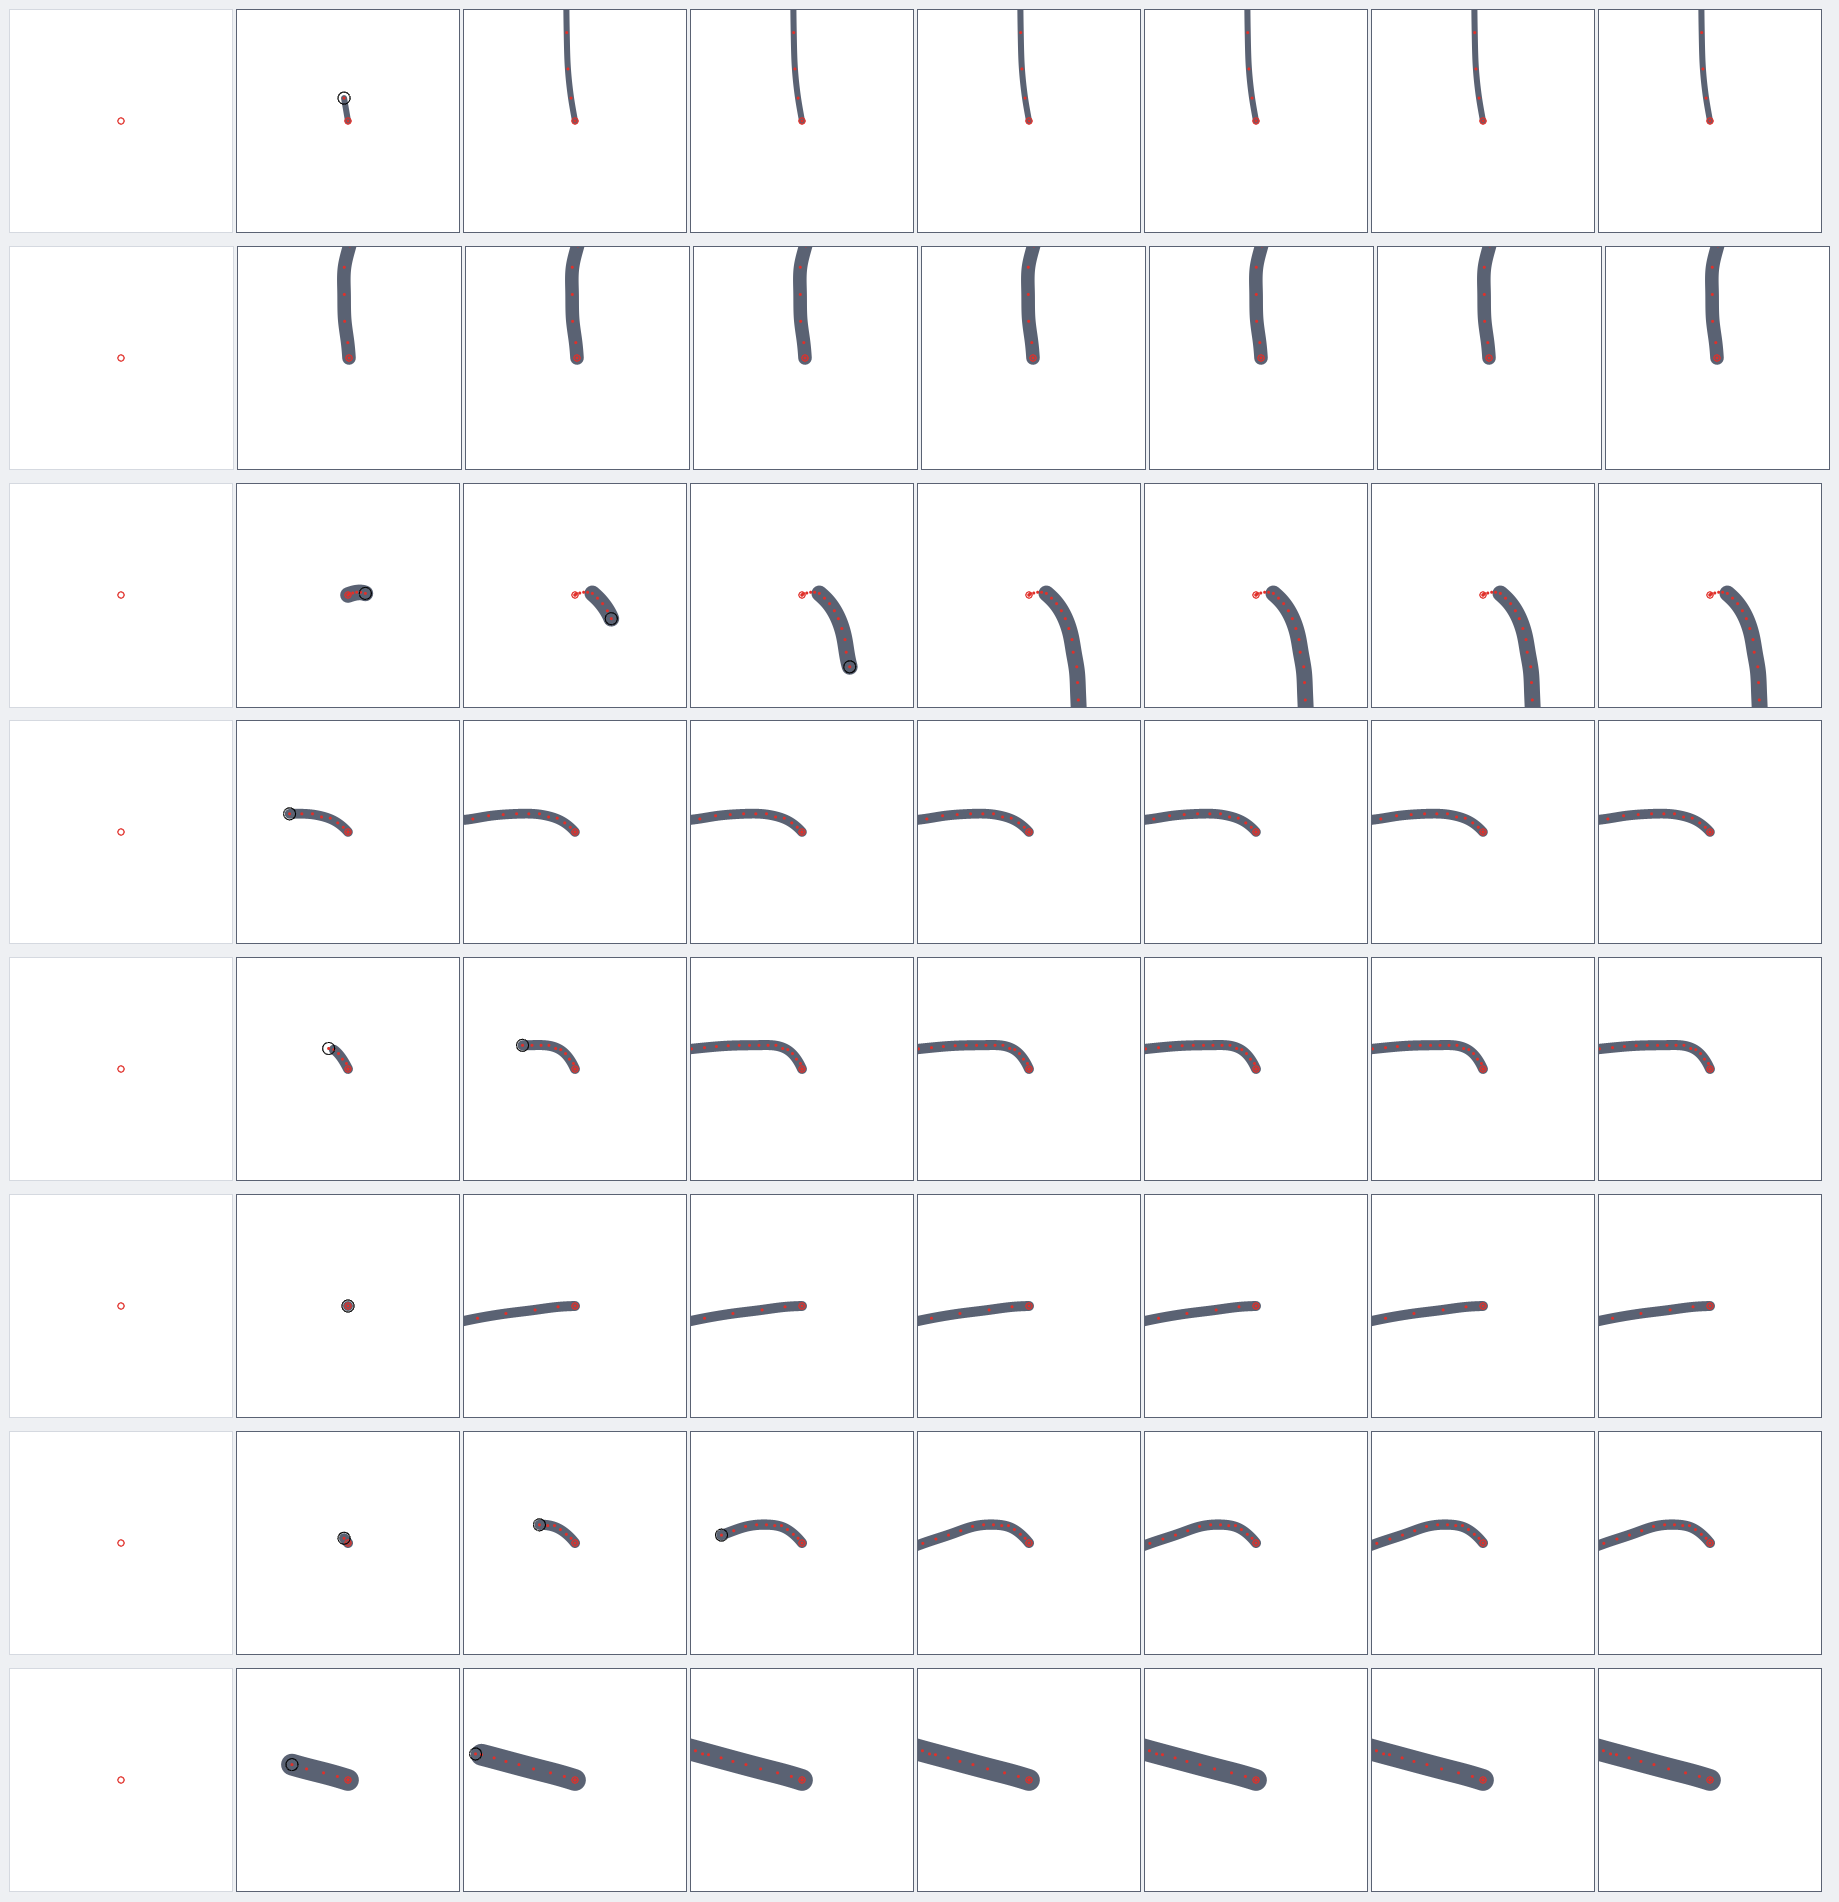
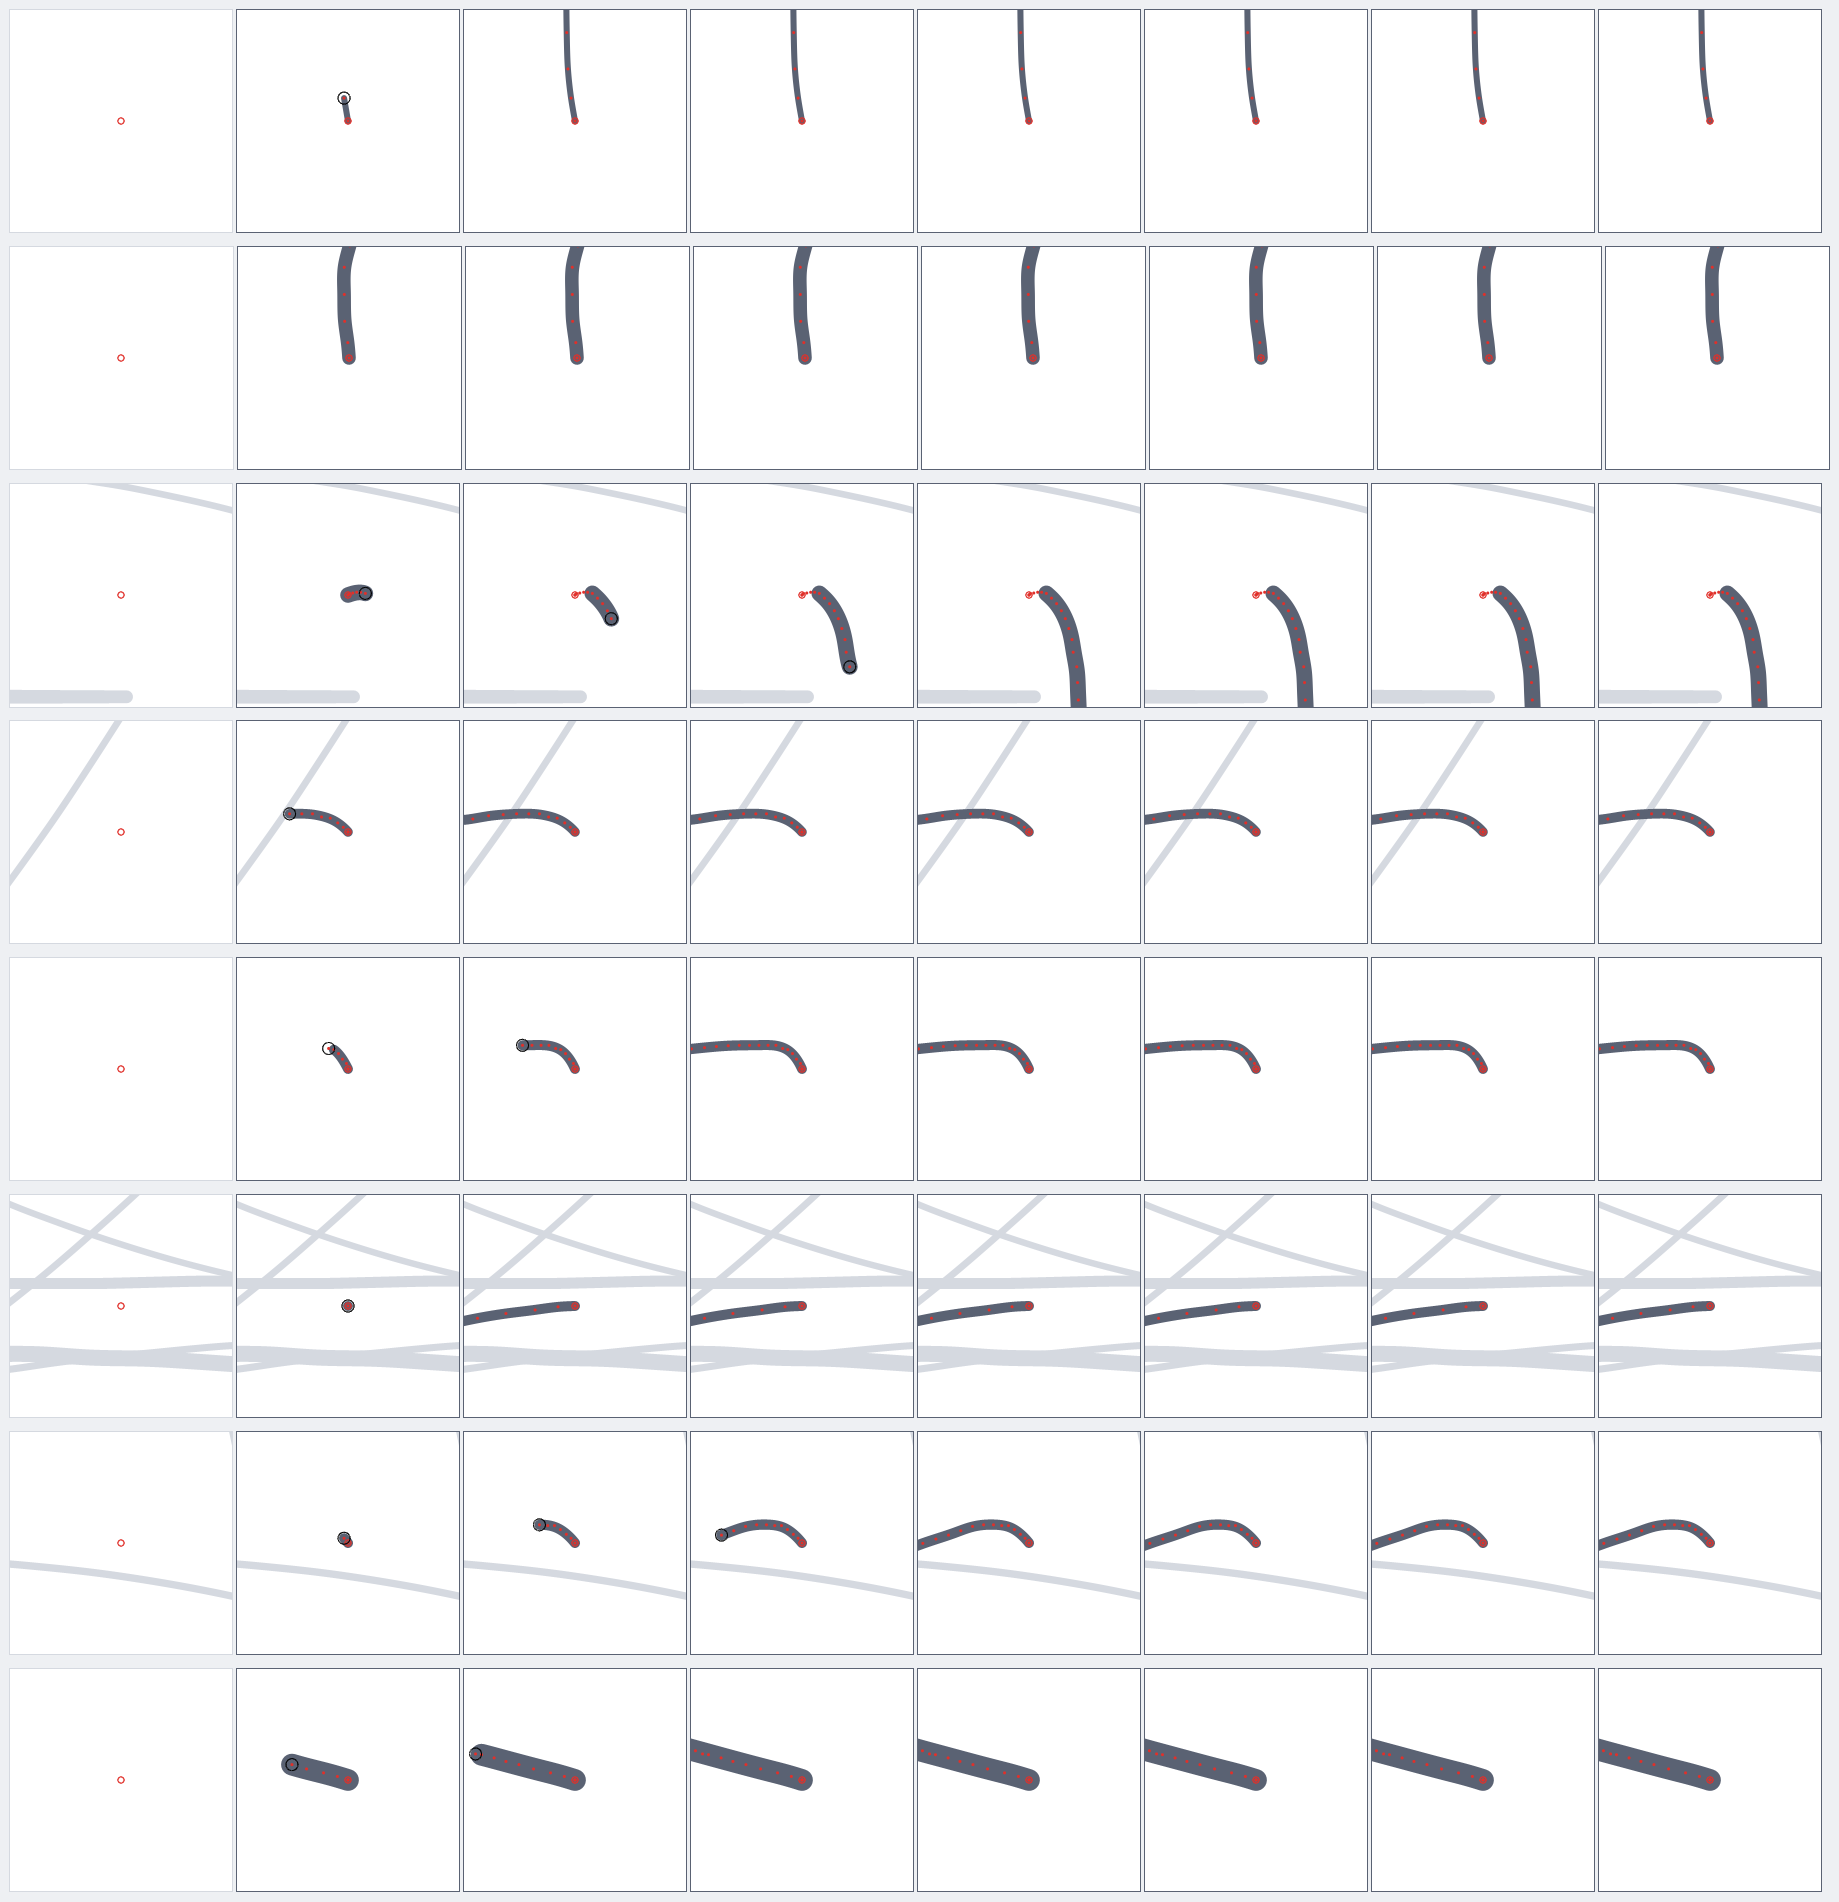
Ink Lab report: pen-down close-ups show earlier ink and the committed stroke; docs images

diff --git a/app/test/inklab/report/pen_down.dart b/app/test/inklab/report/pen_down.dart
@@ -53,21 +53,16 @@ Picture? _row(ReplayResult r, InkContact ink, int count, double size, double zoo
     for (var j = 0; j <= k; j++) {
       for (final s in r.frames[j].committed) {
         final at = r.frames[j].toScreen;
-        if ((at(s.points.first.x, s.points.first.y) - landed).distance < 1) continue;
-        if (!s.points.any((p) => (at(p.x, p.y) - landed).distance < size)) continue;
-        pic.fill(_contours(r, r.frames[j], s.points, true, s.style, view), Ink.inkLight);
+        final own = (at(s.points.first.x, s.points.first.y) - landed).distance < 1;
+        if (!own && !s.points.any((p) => (at(p.x, p.y) - landed).distance < size)) continue;
+        final ink = _contours(r, r.frames[j], s.points, true, s.style, view);
+        pic.fill(ink, own ? 0xFF000000 : Ink.inkLight);
       }
     }
     final mine =
         f.drawing && (f.toScreen(f.points.first.x, f.points.first.y) - landed).distance < 1;
-    final committed = f.committed.where(
-      (s) => (f.toScreen(s.points.first.x, s.points.first.y) - landed).distance < 1,
-    );
     if (mine) {
       pic.fill(_contours(r, f, f.points, false, f.style, view), Ink.ink);
-    } else if (committed.isNotEmpty) {
-      final s = committed.first;
-      pic.fill(_contours(r, f, s.points, true, s.style, view), 0xFF000000);
     }
     final seen = [
       for (final s in c.samples)

diff --git a/docs/INK_LAB.md b/docs/INK_LAB.md
@@ -419,6 +419,12 @@ seventh tile the 2.7 px hook is trimmed (the start moves to the kink).
 
 ![real_spen_02 pen-down close-ups](inklab/rec_real_spen_02_1.0-pendown.png)
 
+![bounces pen-down close-ups](inklab/bounces_0.4-pendown.png)
+
+*`bounces@0.4` at pen-down.* The two bounces (magenta frames) show as a
+dot at the end of the stroke just lifted for three frames (25 ms) and are
+gone after their lift; the intended strokes below start at once.
+
 *`real_spen_02@1` at pen-down.* Every stroke starts under the ring in the
 first frame; the third row is a pen-down flick, trimmed in its second
 frame.
